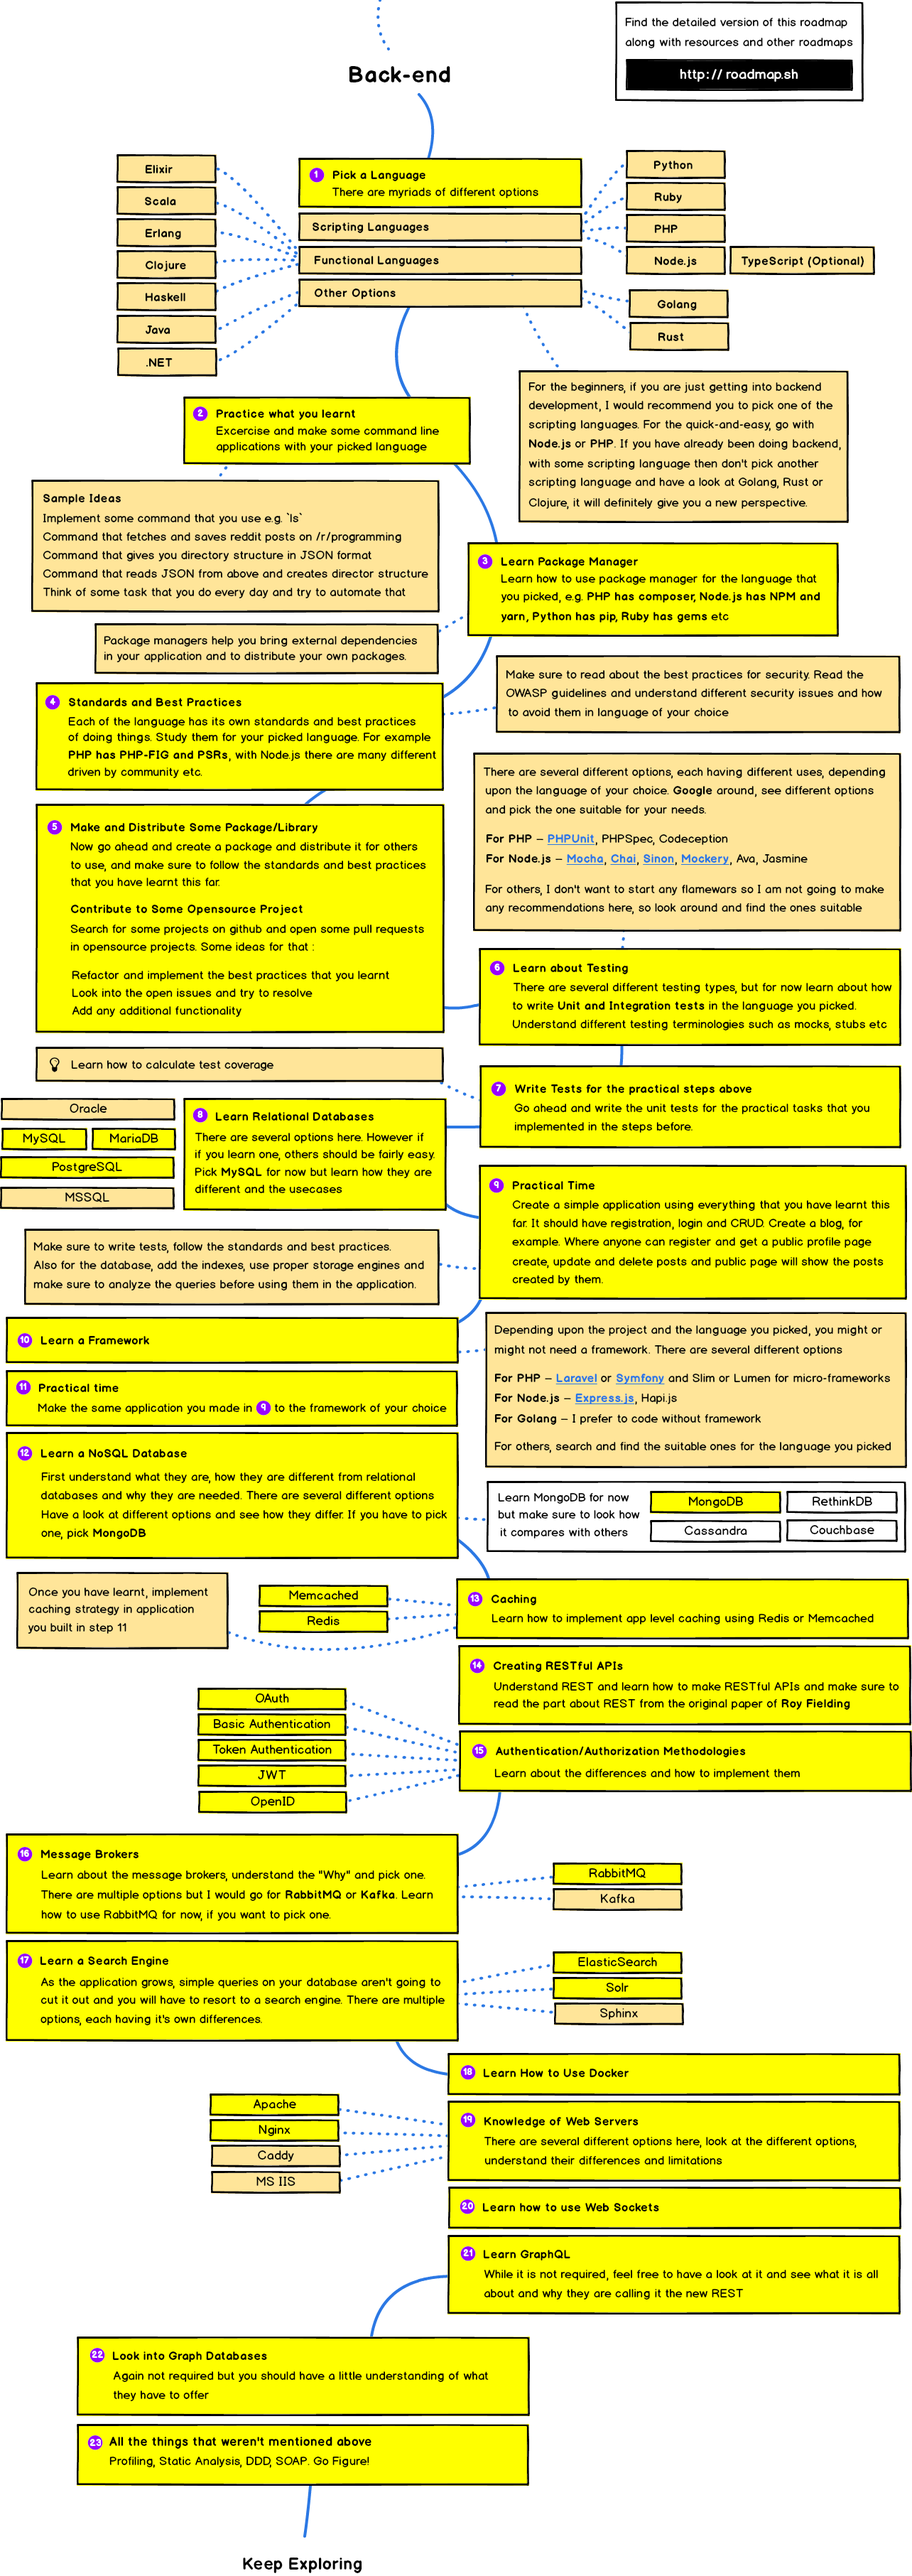
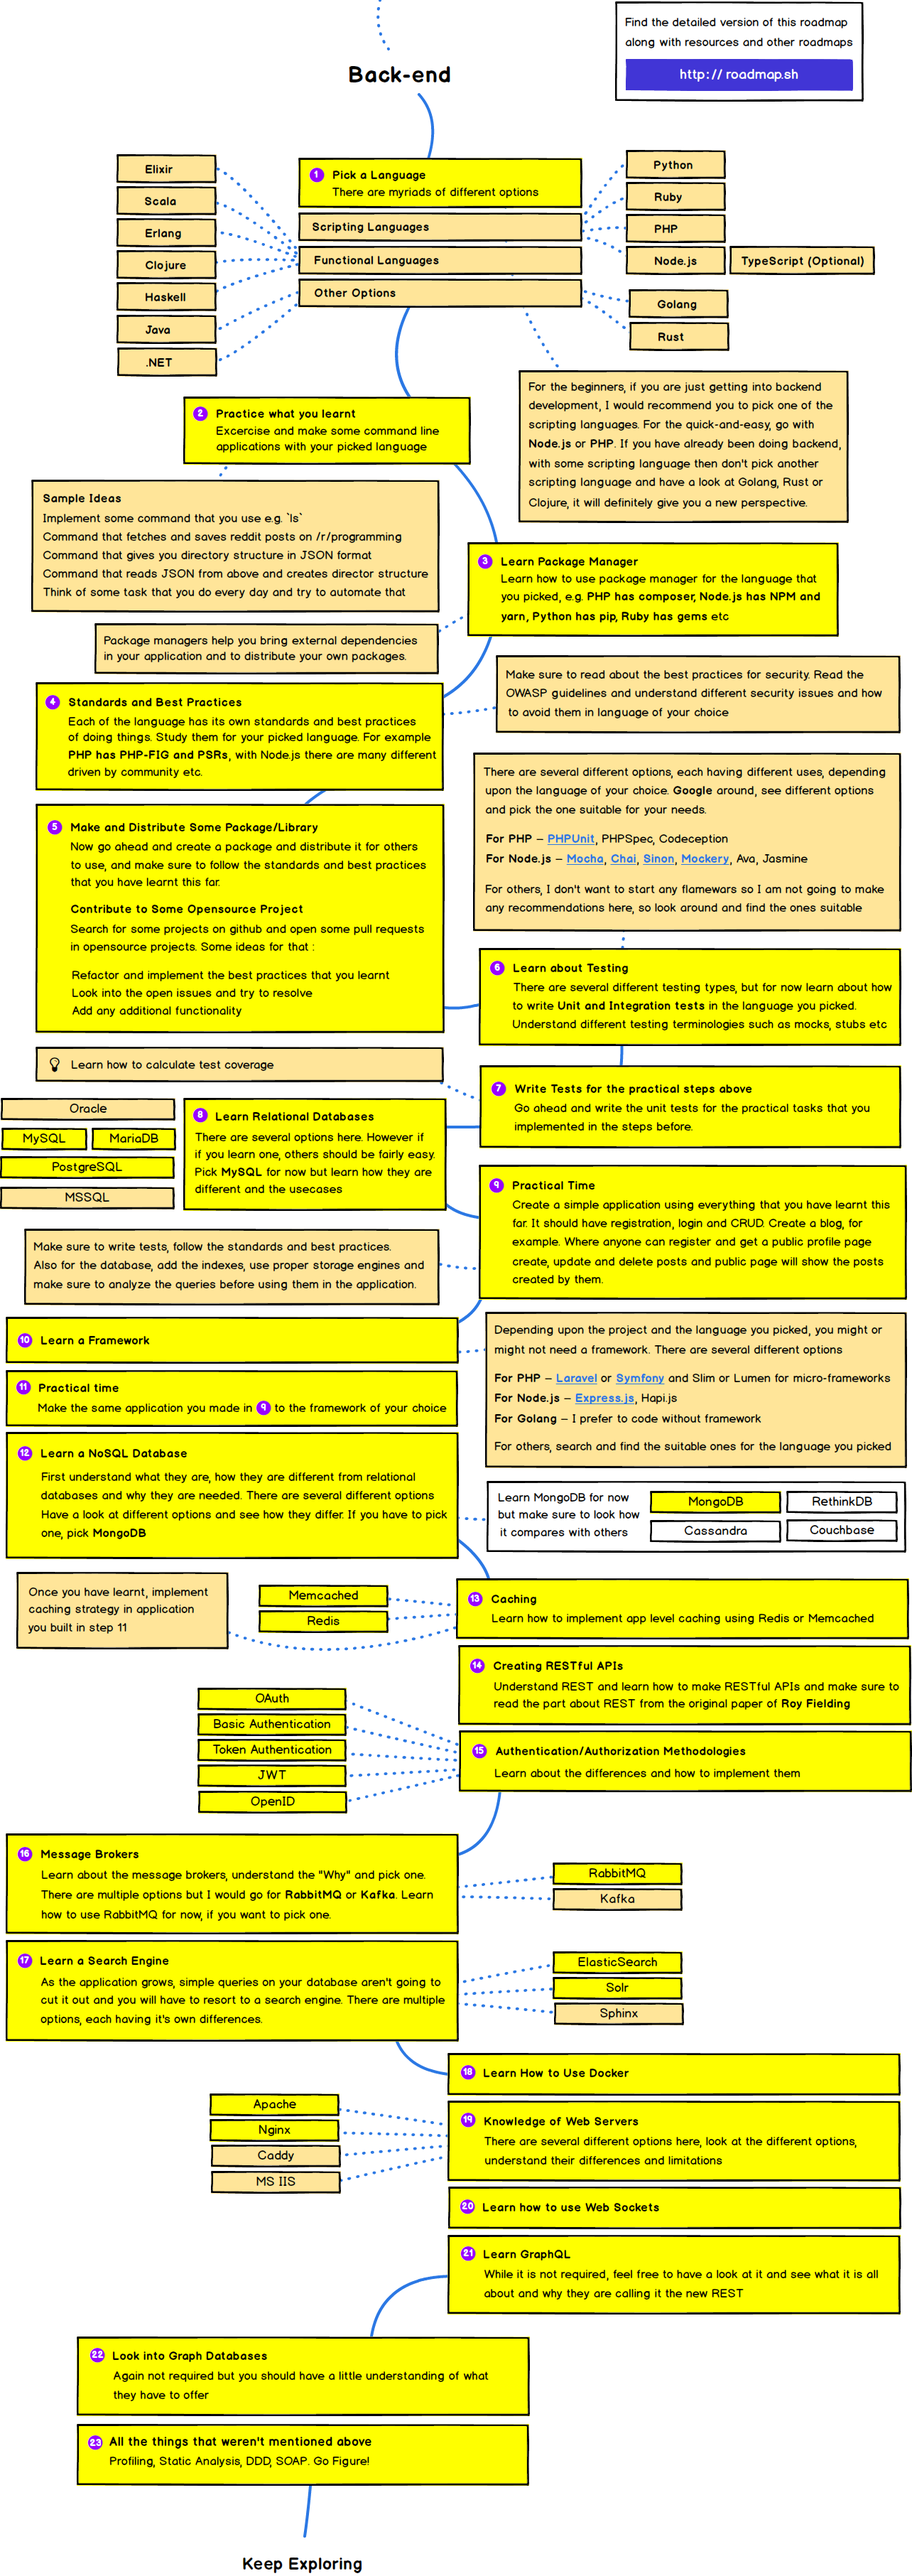
Add roadmaps

diff --git a/blog/_posts/2019-05-03-frontend-developer.md b/blog/_posts/2019-05-03-frontend-developer.md
@@ -5,5 +5,5 @@ permalink: /frontend
 featured: true
 layout: roadmap
 categories: [roadmaps]
-graphic: "/assets/img/roadmaps/frontend.png"
+graphic: "/assets/img/roadmaps/frontend-transparent.png"
 ---

diff --git a/blog/_posts/2019-05-02-backend-developer.md b/blog/_posts/2019-05-02-backend-developer.md
@@ -5,5 +5,5 @@ permalink: /backend
 featured: true
 layout: roadmap
 categories: [roadmaps]
-graphic: "/assets/img/roadmaps/backend.png"
+graphic: "/assets/img/roadmaps/backend-transparent.png"
 ---

diff --git a/blog/_posts/2019-05-01-devops.md b/blog/_posts/2019-05-01-devops.md
@@ -5,5 +5,5 @@ permalink: /devops
 featured: true
 layout: roadmap
 categories: [roadmaps]
-graphic: "/assets/img/roadmaps/devops.png"
+graphic: "/assets/img/roadmaps/devops-transparent.png"
 ---
